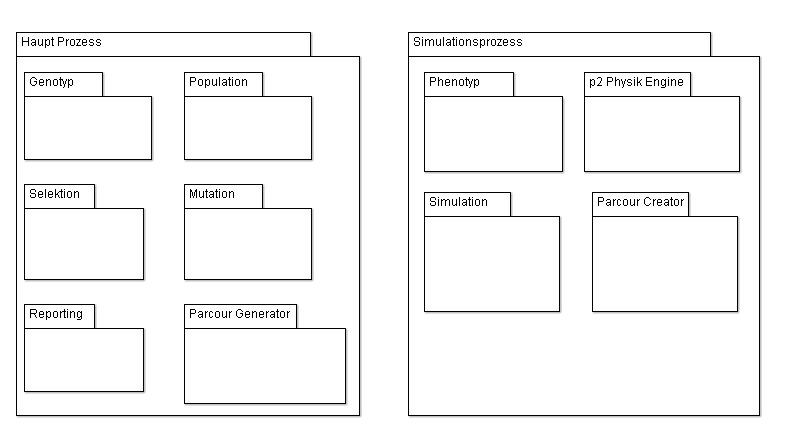
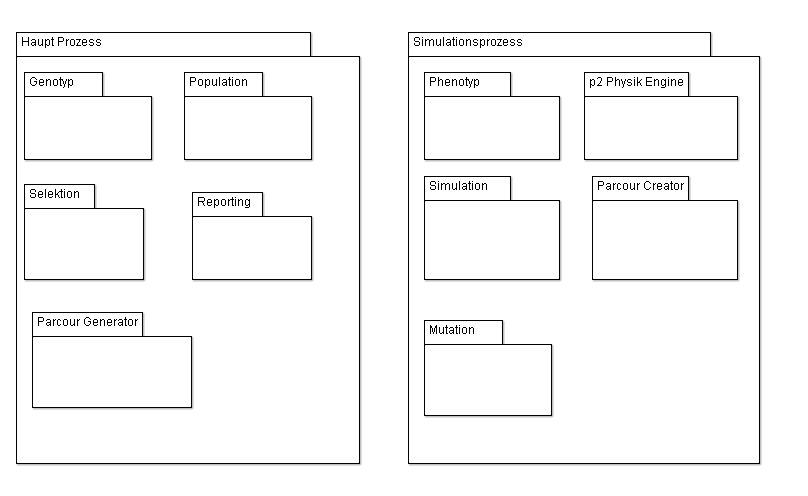
anpassung der mutation in der dok

diff --git a/evolutdoc/thesis/content/main/method.tex b/evolutdoc/thesis/content/main/method.tex
@@ -247,7 +247,7 @@
     nach jeder Generation neu generiert Bei der Evaluation auf Evolvierbarkeit
     wird der Parcours nur dann neu generiert, wenn sich die Schwierigkeit des Parcours ändert.
     Die Schwierigkeit des Parcours wird definiert durch die maximale Steigung und die höchste Position.
-    Ebenso kann die Populationsgrösse definiert werden und wie viele Prozesse für die Simulation benutzt werden.
+    Ebenso kann die Populationsgrösse definiert werden und wie viele Prozesse für die Simulation und Mutation benutzt werden.
     Am sinnvollsten ist es, wenn die Anzahl der Prozesse, der Anzahl Kerne des Prozessors entspricht.
     Die Relaxation, ein Parameter von p2.js, kann auch konfiguriert werden.
     Der Parameter beschreibt die Anzahl von Zeitschritten um eine Konstraint Gleichung zu stabilisieren.
@@ -352,6 +352,7 @@
       Solch eine Limit wurde jeweils für die Länge und Breite der Beine aufgestellt.
       Die Position eines Beins wird unter einer zusätzlichen Bedingung mutiert. Falls sich der Körper so verändert hat,
       dass ein Bein ausserhalb des Körper ist, wird die Position zufällig neu bestimmt.
+      Die Mutation läuft wie die Simulation parellel ab, das heisst, sie kann von mehreren Kernen in einem Prozessor profitieren.
 
     \subsection{Wiederholungen}
 
